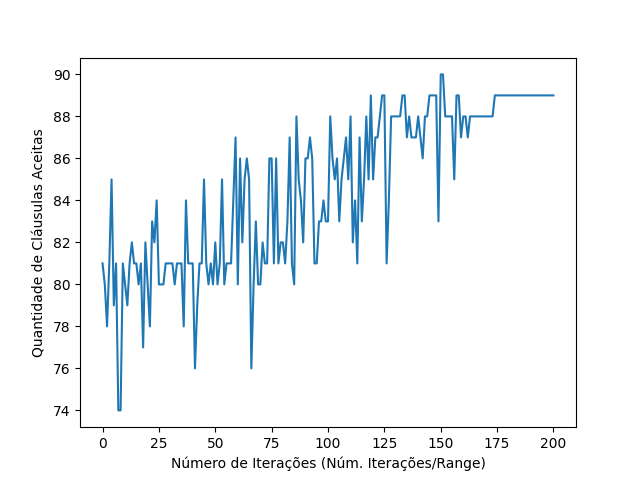
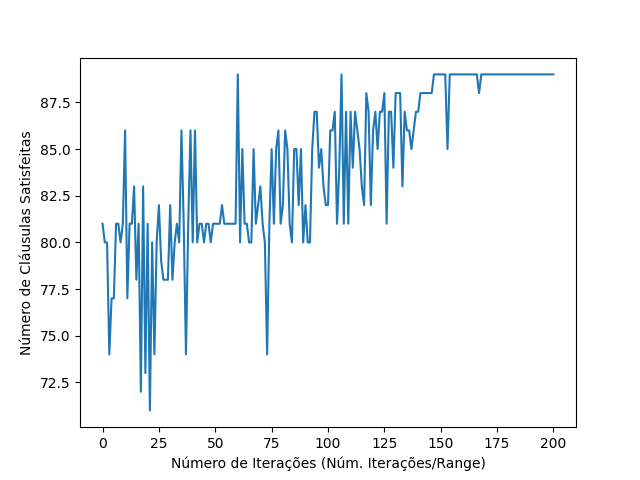
.

diff --git a/sa.py b/sa.py
@@ -158,7 +158,7 @@ def simulated_annealing(initial_solution, var_dict, matrix, max_iter, t, num_var
     #plt.ylim(0, num_rows)
     plt.plot(range(0, len(iter)+1), scores)
     plt.xlabel('Número de Iterações (Núm. Iterações/Range)')
-    plt.ylabel('Quantidade de Cláusulas Aceitas')
+    plt.ylabel('Número de Cláusulas Satisfeitas')
     plt.savefig('convergencia.png')
     plt.close()
 
